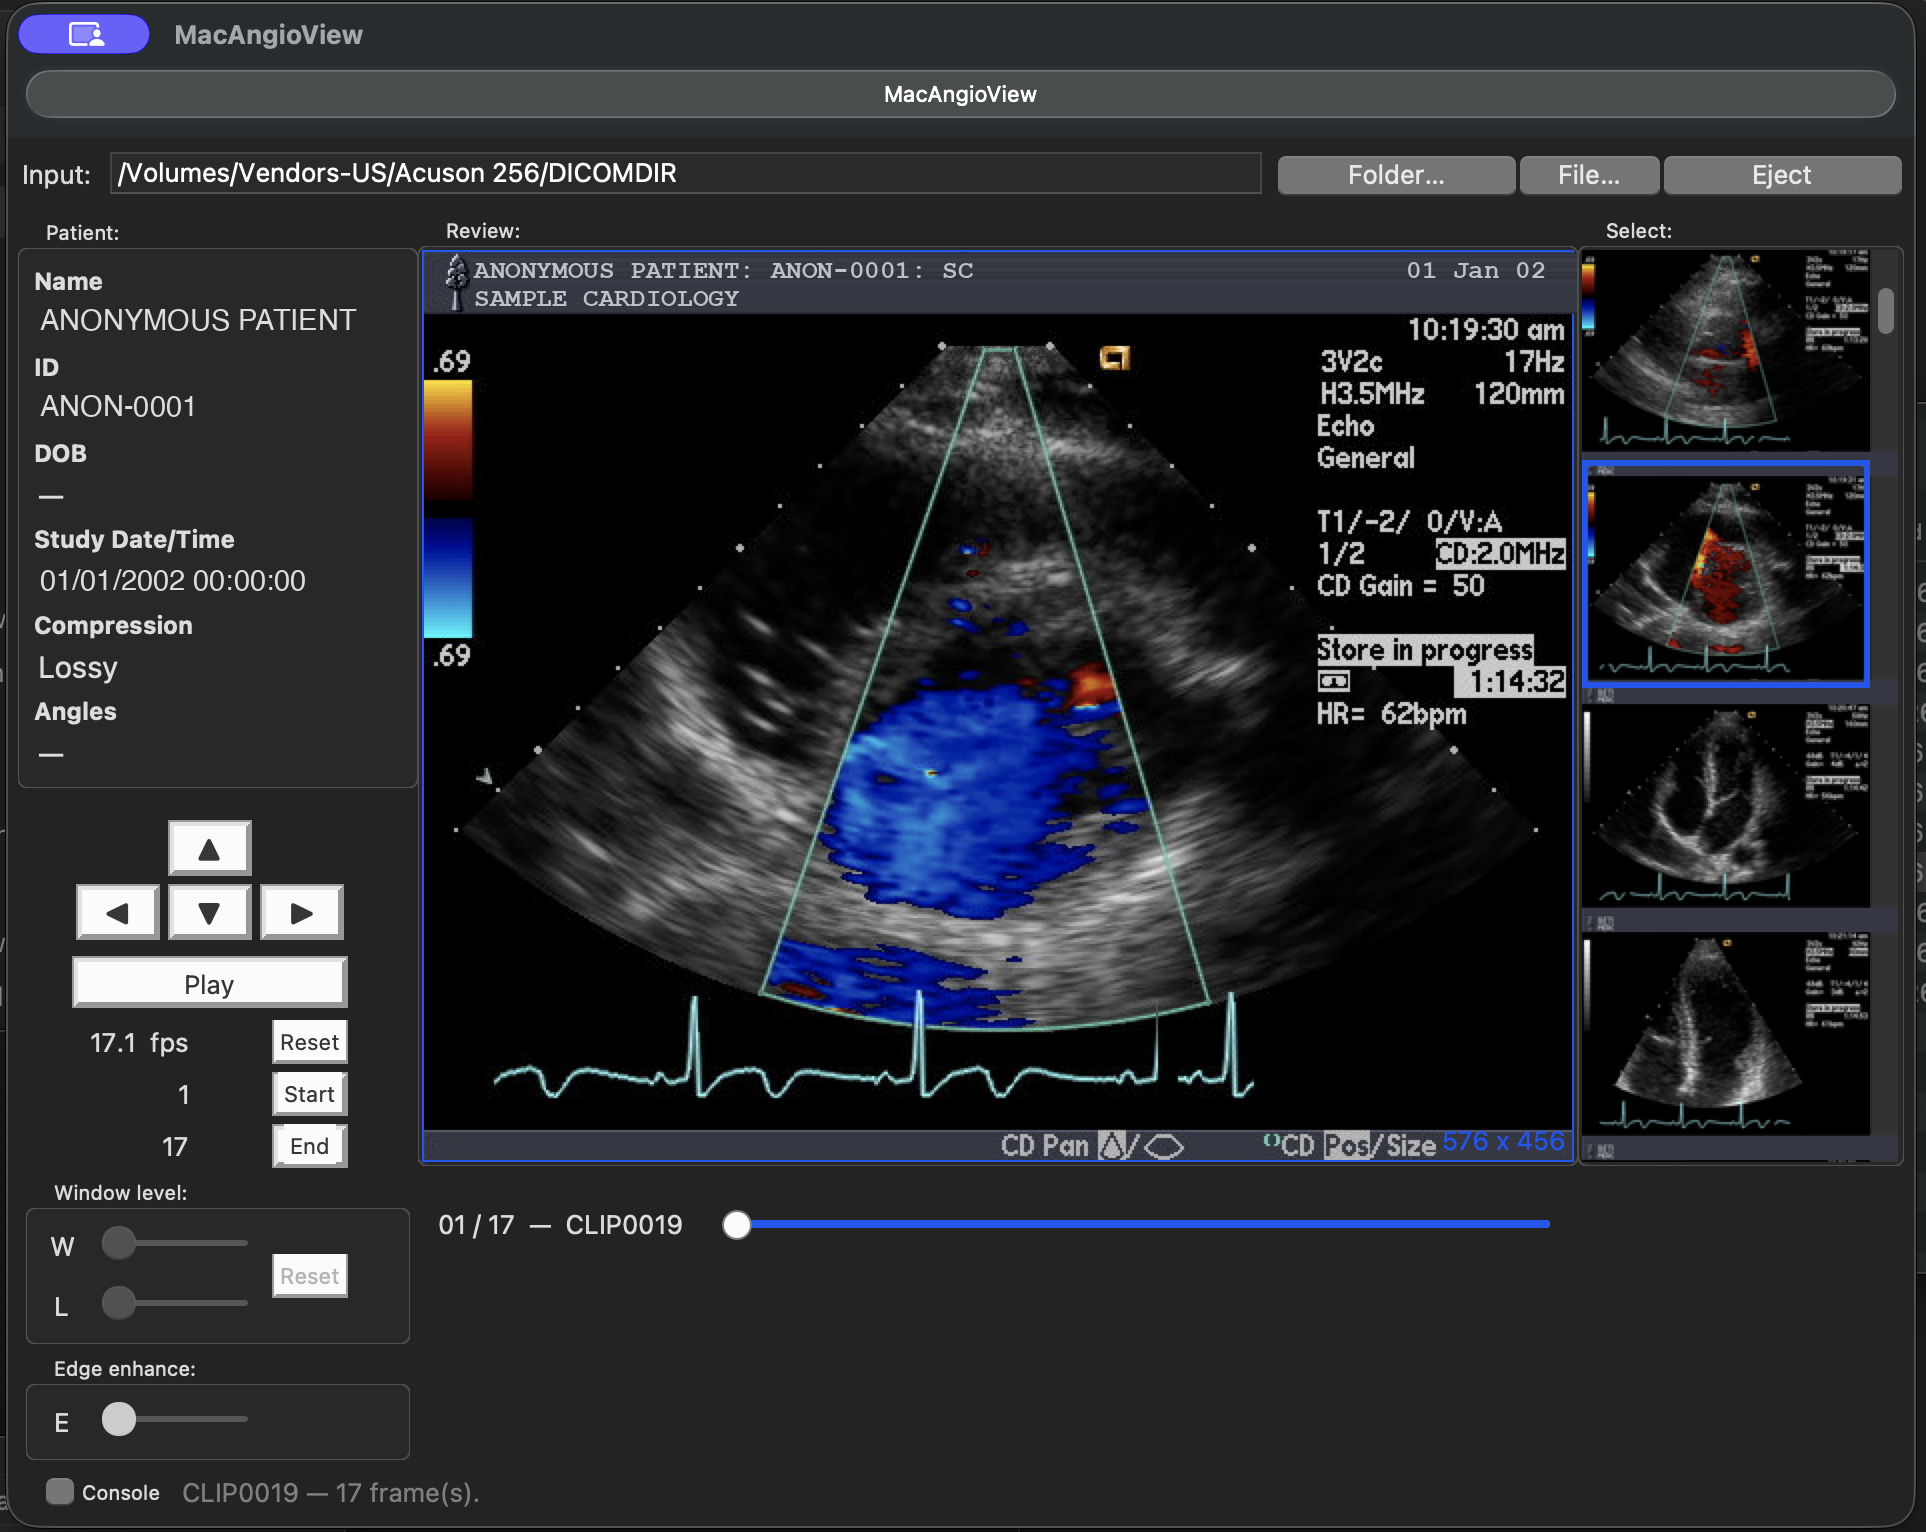
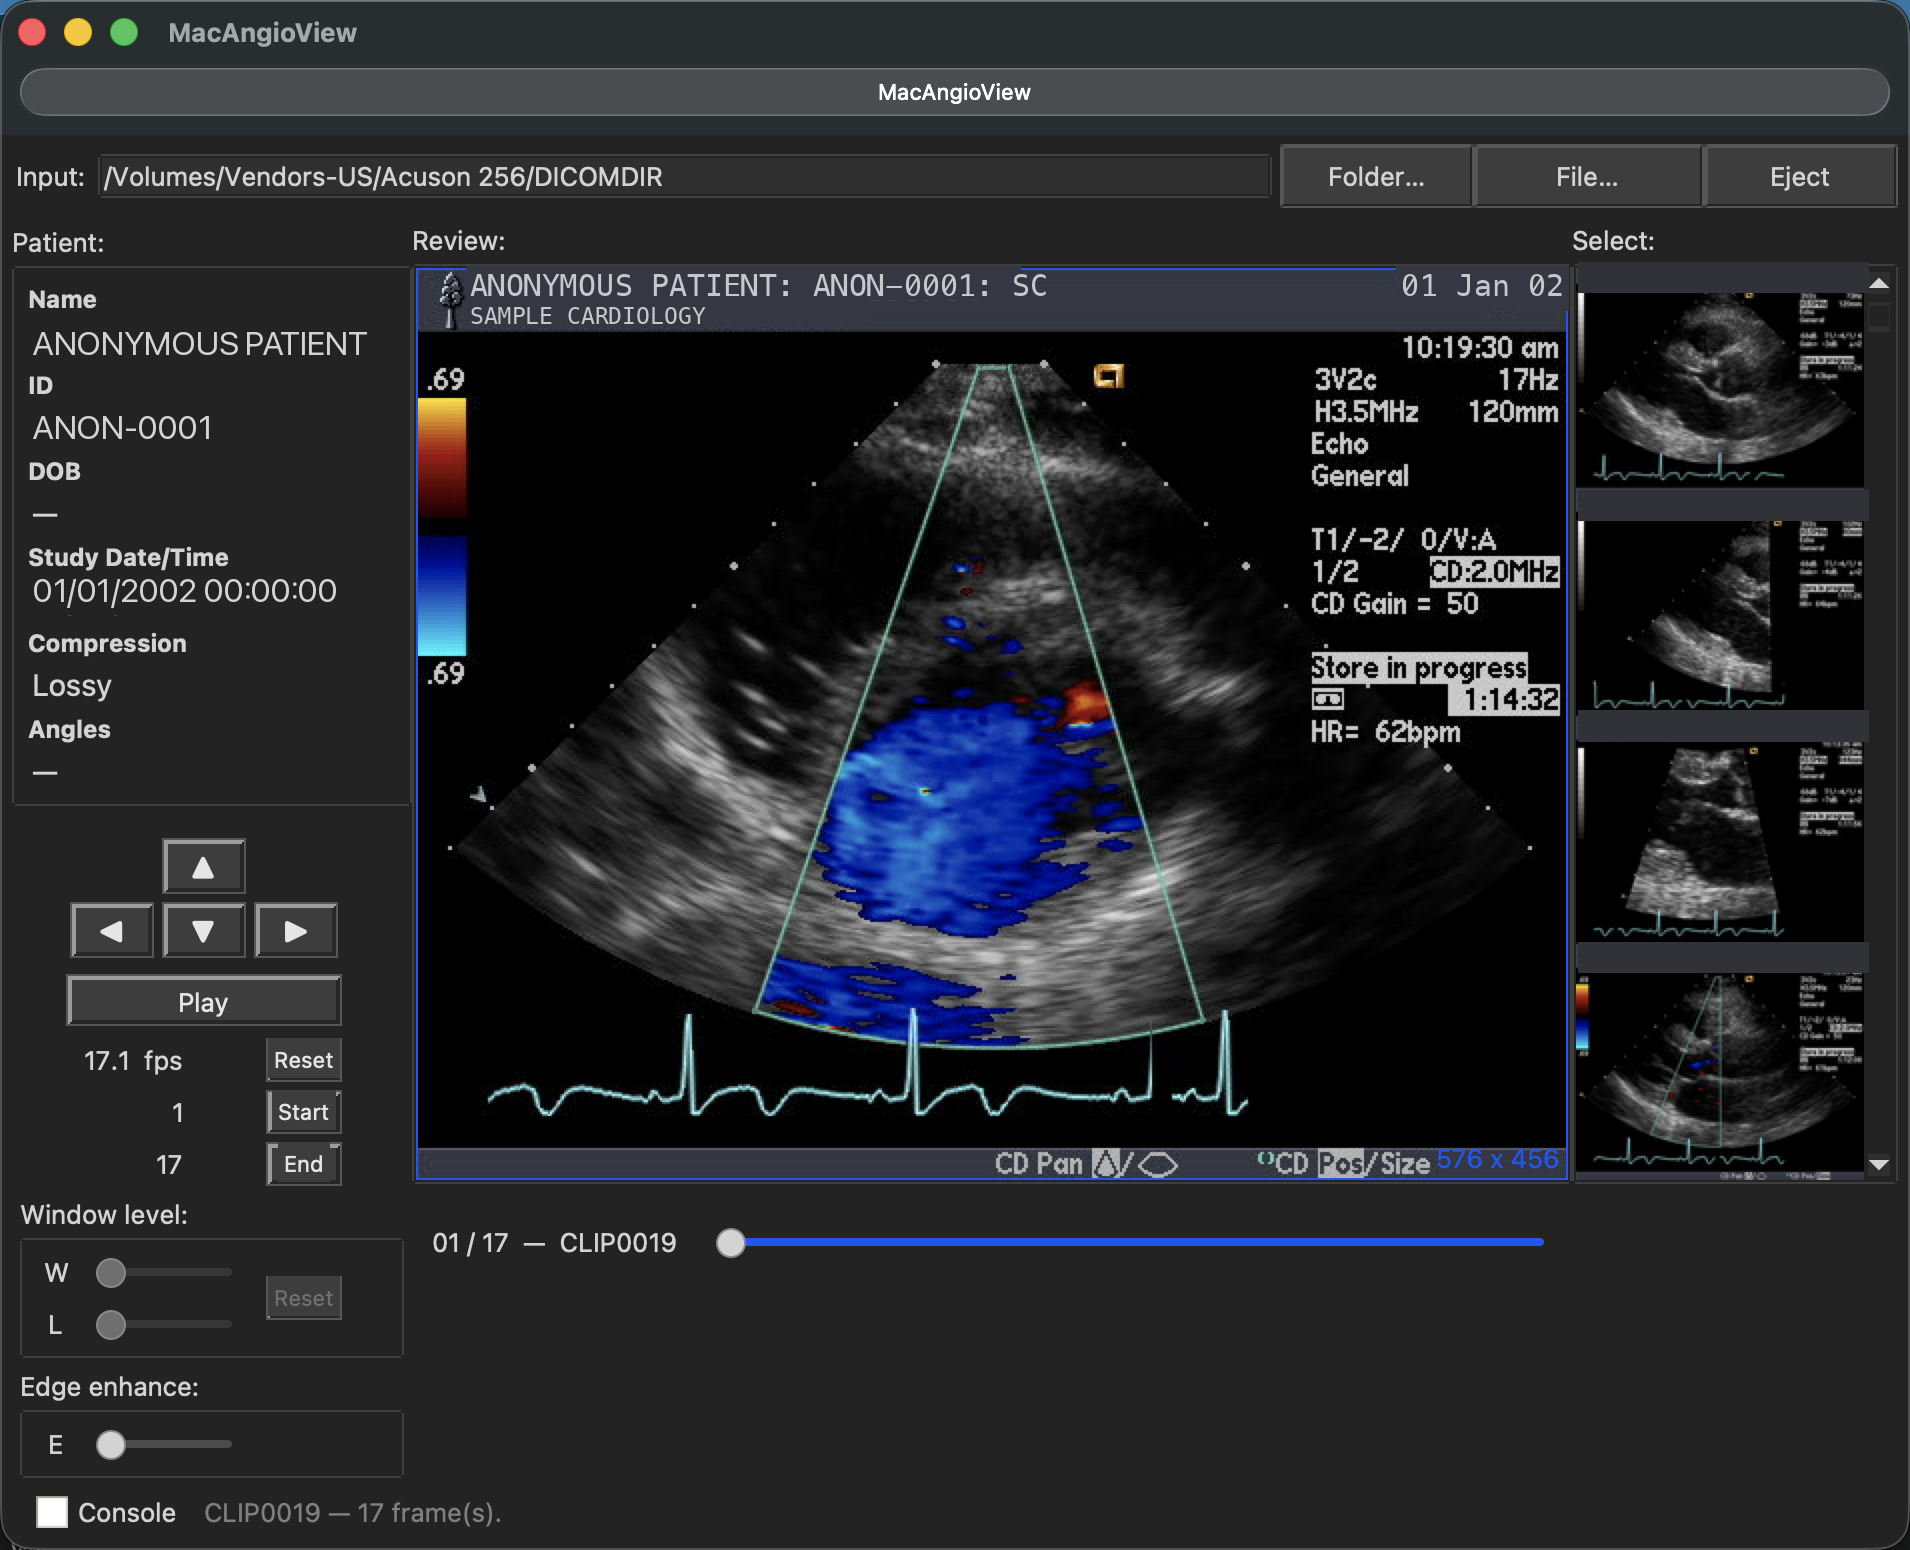
1.1b site update: dual-platform downloads, rev 2.4 conformance, new screenshots
Publishes the site alongside the v1.1b release and the forthcoming Windows
build.

- Conformance statement regenerated for v1.1b / document revision 2.4
  (documentation-only revision: product description made platform-neutral,
  clipboard described as the system clipboard; no change to supported SOP
  classes, transfer syntaxes, or the display pipeline).
- Both hero screenshots regenerated from the current dark-theme build.
- Copy and metadata de-Mac'd ahead of the Windows release: title, meta
  description, OG/Twitter cards, tagline, FAQ.
- Two stacked download buttons (Mac / Windows), sharing a width, plus an
  understated release-asset download tally sourced from the public GitHub
  API. The tally stays empty if the API call fails or is rate-limited.
- Windows coverage completed where the platform-neutral pass had left
  "Install (Mac)" / "Mac —" headings implying a counterpart that did not
  exist: Windows rows in both Requirements lists, an Install (Windows)
  section, and a SmartScreen FAQ entry (that build is not code-signed).
- JSON-LD operatingSystem now names both platforms rather than staying
  Mac-only while the visible copy went neutral.

The Windows button targets the exact asset filename that
make_windows_zip.ps1 documents and produces, MacAngioView-Windows.zip. That
asset is not on the v1.1b release yet, so the button 404s until it is
uploaded.

diff --git a/index.html b/index.html
@@ -12,8 +12,8 @@
 </script>
 <meta charset="UTF-8">
 <meta name="viewport" content="width=device-width, initial-scale=1.0">
-<title>MacAngioView — DICOM Angiogram &amp; Ultrasound Cine Viewer for macOS</title>
-<meta name="description" content="MacAngioView is a free DICOM cine viewer for macOS. Play back x-ray angiography (XA) and multiframe ultrasound (US) loops from cath-lab and echo study CDs, view PDF and Structured Report documents, and export runs to standard movie formats.">
+<title>MacAngioView — DICOM Angiogram &amp; Ultrasound Cine Viewer</title>
+<meta name="description" content="MacAngioView is a free DICOM cine viewer. Play back x-ray angiography (XA) and multiframe ultrasound (US) loops from cath-lab and echo study CDs, view PDF and Structured Report documents, and export runs to standard movie formats.">
 <link rel="canonical" href="https://macangioview.com/">
 <link rel="icon" type="image/png" href="/icon.png">
 <link rel="apple-touch-icon" href="/icon.png">
@@ -21,13 +21,13 @@
 <!-- Open Graph / social sharing -->
 <meta property="og:type" content="website">
 <meta property="og:site_name" content="MacAngioView">
-<meta property="og:title" content="MacAngioView — DICOM Angiogram &amp; Ultrasound Cine Viewer for macOS">
-<meta property="og:description" content="Free DICOM cine viewer for macOS. Play back x-ray angiography (XA) and multiframe ultrasound (US) loops from study CDs, and export to standard movie formats.">
+<meta property="og:title" content="MacAngioView — DICOM Angiogram &amp; Ultrasound Cine Viewer">
+<meta property="og:description" content="Free DICOM cine viewer. Play back x-ray angiography (XA) and multiframe ultrasound (US) loops from study CDs, and export to standard movie formats.">
 <meta property="og:url" content="https://macangioview.com/">
 <meta property="og:image" content="https://macangioview.com/screenshot.jpg">
 <meta name="twitter:card" content="summary_large_image">
-<meta name="twitter:title" content="MacAngioView — DICOM Angiogram &amp; Ultrasound Cine Viewer for macOS">
-<meta name="twitter:description" content="Free DICOM cine viewer for macOS. Play back x-ray angiography (XA) and multiframe ultrasound (US) loops from study CDs.">
+<meta name="twitter:title" content="MacAngioView — DICOM Angiogram &amp; Ultrasound Cine Viewer">
+<meta name="twitter:description" content="Free DICOM cine viewer. Play back x-ray angiography (XA) and multiframe ultrasound (US) loops from study CDs.">
 <meta name="twitter:image" content="https://macangioview.com/screenshot.jpg">
 
 <!-- Structured data -->
@@ -36,9 +36,9 @@
   "@context": "https://schema.org",
   "@type": "SoftwareApplication",
   "name": "MacAngioView",
-  "operatingSystem": "macOS 12.0 or later",
+  "operatingSystem": "macOS 12.0 or later, Windows 10 or 11 (64-bit)",
   "applicationCategory": "MedicalApplication",
-  "description": "A DICOM cine viewer for macOS that plays back x-ray angiography (XA) and multiframe ultrasound (US) loops, with export to standard movie formats. For review and educational use; not a certified medical device.",
+  "description": "A DICOM cine viewer that plays back x-ray angiography (XA) and multiframe ultrasound (US) loops, with export to standard movie formats. For review and educational use; not a certified medical device.",
   "url": "https://macangioview.com/",
   "image": "https://macangioview.com/icon.png",
   "screenshot": "https://macangioview.com/screenshot.jpg",
@@ -61,6 +61,10 @@
   .tagline{font-size:1.25rem;color:var(--muted);margin:16px auto 32px;max-width:640px}
   .btn{display:inline-block;background:var(--accent);color:#fff;text-decoration:none;font-weight:600;font-size:1.1rem;padding:14px 36px;border-radius:10px;transition:background .15s}
   .btn:hover{background:var(--accent-h)}
+  /* Stacked download buttons: one column sized to the widest label, centred,
+     so both buttons share a width regardless of their text. */
+  .dl{display:grid;grid-auto-rows:auto;justify-content:center;gap:12px}
+  .dl .btn{width:100%;text-align:center}
   .sub{color:var(--muted);font-size:.9rem;margin-top:12px}
   .shot{display:block;max-width:560px;width:100%;height:auto;margin:40px auto 0;border:1px solid var(--border);border-radius:12px;box-shadow:0 20px 60px rgba(0,0,0,.5)}
   .shot + .shot{margin-top:24px}
@@ -77,6 +81,9 @@
   .faq h3{font-size:1.05rem;margin:22px 0 6px}
   .faq p{color:var(--muted);font-size:.95rem}
   footer{padding:40px 0;text-align:center;color:var(--muted);font-size:.85rem;border-top:1px solid var(--border)}
+  /* Download tally: deliberately understated, bottom-right. Stays empty (and
+     so invisible) if the GitHub API call fails or is rate-limited. */
+  .dlcount{text-align:right;font-size:.7rem;color:var(--muted);opacity:.5;margin-top:10px;font-variant-numeric:tabular-nums}
   a{color:var(--accent)}
 </style>
 </head>
@@ -85,13 +92,16 @@
 <header>
   <div class="wrap">
     <h1>MacAngioView</h1>
-    <p class="tagline">A DICOM cine viewer for macOS. Play back x-ray angiography (XA) and multiframe ultrasound (US) loops from a wide range of cath-lab and echo imaging systems — and read the study's PDF and Structured Report documents alongside.</p>
-    <a class="btn" href="https://github.com/wlapointe/MacAngioView/releases/latest/download/MacAngioView.dmg">Download for Mac</a>
-    <p class="sub">Free download &middot; macOS 12 or later &middot; <a href="https://github.com/wlapointe/MacAngioView">Source &amp; releases on GitHub</a></p>
-    <img class="shot" src="/screenshot.jpg" width="1400" height="1094"
-         alt="MacAngioView on macOS playing a coronary cine-angiogram run at 30 fps, with run thumbnails including a structured report, frame slider, and window-level controls">
-    <img class="shot" src="/Echocardiography-Sample.png" width="1926" height="1532"
-         alt="MacAngioView on macOS playing a color-Doppler echocardiography (ultrasound) loop, with study thumbnails, frame slider, edge-enhance and window-level controls">
+    <p class="tagline">A DICOM cine viewer. Play back x-ray angiography (XA) and multiframe ultrasound (US) loops from a wide range of cath-lab and echo imaging systems — and read the study's PDF and Structured Report documents alongside.</p>
+    <div class="dl">
+      <a class="btn" href="https://github.com/wlapointe/MacAngioView/releases/latest/download/MacAngioView.dmg">Download for Mac</a>
+      <a class="btn" href="https://github.com/wlapointe/MacAngioView/releases/latest/download/MacAngioView-Windows.zip">Download for Windows 10/11</a>
+    </div>
+    <p class="sub">Free download &middot; macOS 12 or later &middot; Windows 10/11 (64-bit) &middot; <a href="https://github.com/wlapointe/MacAngioView">Source &amp; releases on GitHub</a></p>
+    <img class="shot" src="/screenshot.jpg" width="1750" height="1550"
+         alt="MacAngioView playing a coronary cine-angiogram run at 30 fps, with run thumbnails including a structured report, frame slider, and window-level controls">
+    <img class="shot" src="/Echocardiography-Sample.png" width="1910" height="1550"
+         alt="MacAngioView playing a color-Doppler echocardiography (ultrasound) loop, with study thumbnails, frame slider, edge-enhance and window-level controls">
   </div>
 </header>
 
@@ -115,7 +125,8 @@
   <div class="wrap">
     <h2>Requirements</h2>
     <ul class="req">
-      <li>macOS 12 (Monterey) or later — Apple silicon or Intel</li>
+      <li>Mac — macOS 12 (Monterey) or later, Apple silicon or Intel</li>
+      <li>Windows — Windows 10 or 11, 64-bit</li>
       <li>DICOM XA cine-angiogram runs or multiframe US studies on CD, disk, or folder</li>
     </ul>
   </div>
@@ -124,12 +135,14 @@
 <section class="faq">
   <div class="wrap">
     <h2>FAQ</h2>
-    <h3>Can I open my angiogram CD on a Mac?</h3>
+    <h3>Can I open my angiogram CD myself?</h3>
     <p>Yes. Insert the CD (or copy its contents to a folder), open MacAngioView, and point it at the disc or folder. It finds the DICOM XA runs automatically — no separate viewer software from the CD is needed.</p>
     <h3>Does it play ultrasound studies?</h3>
     <p>Yes. Multiframe DICOM ultrasound (US) cine loops — such as echocardiography and vascular studies — play back the same way as angiography runs.</p>
     <h3>Is it free?</h3>
-    <p>Yes. MacAngioView is a free download, signed and notarized by Apple, distributed through <a href="https://github.com/wlapointe/MacAngioView/releases">GitHub Releases</a>.</p>
+    <p>Yes. MacAngioView is a free download, distributed through <a href="https://github.com/wlapointe/MacAngioView/releases">GitHub Releases</a>. The Mac build is signed and notarized by Apple, so it opens with no security warnings.</p>
+    <h3>Windows says "Windows protected your PC" — is that a problem?</h3>
+    <p>No. The Windows beta isn't code-signed yet, so SmartScreen warns on first launch. Click <strong>More info</strong>, then <strong>Run anyway</strong>. Extract the zip first and run <code>MacAngioView.exe</code> from the extracted folder.</p>
     <h3>Can I use it for diagnosis?</h3>
     <p>No. MacAngioView is for review, education, and personal record-keeping. It is not a certified medical device and must not be used for primary diagnosis or treatment decisions.</p>
     <h3>Is there a DICOM Conformance Statement?</h3>
@@ -145,8 +158,38 @@
 </section>
 
 <footer>
-  <div class="wrap">&copy; 2026 Wil Lapointe &middot; MacAngioView &middot; <a href="/conformance.html">DICOM Conformance Statement</a></div>
+  <div class="wrap">&copy; 2026 Wil Lapointe &middot; MacAngioView &middot; <a href="/conformance.html">DICOM Conformance Statement</a>
+    <div class="dlcount" id="dlcount"></div>
+  </div>
 </footer>
+
+<script>
+// Release-asset download tallies, straight from the public GitHub API
+// (CORS-enabled, 60 req/hr per visitor IP, 60s cache). Rendered as
+// <mac>-<windows>. Any failure leaves the element empty rather than
+// showing a broken placeholder.
+(function () {
+  var el = document.getElementById('dlcount');
+  if (!el) return;
+  fetch('https://api.github.com/repos/wlapointe/MacAngioView/releases')
+    .then(function (r) { return r.ok ? r.json() : Promise.reject(r.status); })
+    .then(function (releases) {
+      if (!Array.isArray(releases)) return;
+      var mac = 0, win = 0;
+      releases.forEach(function (rel) {
+        (rel.assets || []).forEach(function (a) {
+          var n = (a.name || '').toLowerCase();
+          var c = a.download_count || 0;
+          if (n.endsWith('.dmg')) mac += c;
+          else if (n.endsWith('.exe') || n.endsWith('.msi') ||
+                   n.indexOf('windows') !== -1) win += c;
+        });
+      });
+      el.textContent = mac + '-' + win;
+    })
+    .catch(function () { /* leave the tally out entirely */ });
+})();
+</script>
 
 </body>
 </html>

diff --git a/conformance.html b/conformance.html
@@ -4,7 +4,7 @@
 <meta charset="UTF-8">
 <meta name="viewport" content="width=device-width, initial-scale=1.0">
 <title>DICOM Conformance Statement — MacAngioView</title>
-<meta name="description" content="DICOM Conformance Statement for MacAngioView, the free DICOM angiogram and ultrasound cine viewer for macOS: supported SOP classes, transfer syntaxes, media profiles, and display pipeline.">
+<meta name="description" content="DICOM Conformance Statement for MacAngioView, the free DICOM angiogram and ultrasound cine viewer: supported SOP classes, transfer syntaxes, media profiles, and display pipeline.">
 <link rel="canonical" href="https://macangioview.com/conformance.html">
 <link rel="icon" type="image/png" href="/icon.png">
 <style>
@@ -45,8 +45,8 @@
 
 <article class="wrap">
 <div class="markdown-heading"><h1 class="heading-element">DICOM Conformance Statement</h1><a id="user-content-dicom-conformance-statement" class="anchor" aria-label="Permalink: DICOM Conformance Statement" href="#dicom-conformance-statement"><span aria-hidden="true" class="octicon octicon-link"></span></a></div>
-<p><strong>MacAngioView</strong> — DICOM cine viewer for macOS
-Version 1.0b · Document date 2026-07-19 · Document version 2.3 (draft)</p>
+<p><strong>MacAngioView</strong> — DICOM cine viewer
+Version 1.1b · Document date 2026-07-23 · Document version 2.4 (draft)</p>
 <blockquote>
 <p><strong>Disclaimer.</strong> MacAngioView is a beta application for evaluation, review,
 and educational use only. It is <strong>not a certified medical device</strong> and is
@@ -56,12 +56,12 @@ audited.</p>
 </blockquote>
 <hr>
 <div class="markdown-heading"><h2 class="heading-element">1. Conformance Statement Overview</h2><a id="user-content-1-conformance-statement-overview" class="anchor" aria-label="Permalink: 1. Conformance Statement Overview" href="#1-conformance-statement-overview"><span aria-hidden="true" class="octicon octicon-link"></span></a></div>
-<p>MacAngioView is a standalone macOS desktop application that reads DICOM
+<p>MacAngioView is a standalone desktop application that reads DICOM
 PS3.10 (Part 10) files and DICOMDIR file-sets from local storage or mounted
 removable media (CD/DVD/USB), and displays X-ray angiographic (XA) cine
 runs, multiframe/single-frame ultrasound (US) images, and the Encapsulated
 PDF and Structured Report (SR) documents contained in a study. It can export loaded runs to QuickTime (.mov)
-movies and copy the displayed frame to the macOS clipboard (both non-DICOM
+movies and copy the displayed frame to the system clipboard (both non-DICOM
 outputs).</p>
 <p>MacAngioView implements <strong>Media Interchange services only</strong>, in the
 <strong>File-Set Reader (FSR)</strong> role. It provides <strong>no network services</strong> of any
@@ -220,6 +220,12 @@ DICOM objects.</p>
 <td>2026-07-19</td>
 <td>1.0b</td>
 <td>US studies displayed at native matrix (rectangular viewport); zoom and thumbnails preserve source aspect; SR zero-valued NUM measurements rendered</td>
+</tr>
+<tr>
+<td>2.4 (draft)</td>
+<td>2026-07-23</td>
+<td>1.1b</td>
+<td>Documentation only — product description made platform-neutral ahead of the Windows build; clipboard described as the system clipboard. No change to supported SOP classes, transfer syntaxes, or the display pipeline</td>
 </tr>
 </tbody>
 </table>

diff --git a/README.md b/README.md
@@ -1,13 +1,13 @@
 # MacAngioView
 
-**A DICOM cine viewer for macOS** — play back cardiac catheterization
+**A DICOM cine viewer** — play back cardiac catheterization
 angiography (XA) runs and multiframe ultrasound (US) loops from study CDs,
 disks, or exported folders.
 
 <p align="center"><img src="screenshot.jpg" alt="MacAngioView playing a coronary cine-angiogram run, with run thumbnails and playback controls" width="720"></p>
 
 🌐 **Website:** [macangioview.com](https://macangioview.com)
-⬇️ **Download:** [MacAngioView.dmg (latest release)](https://github.com/wlapointe/MacAngioView/releases/latest/download/MacAngioView.dmg)
+⬇️ **Download:** [MacAngioView.dmg (Mac)](https://github.com/wlapointe/MacAngioView/releases/latest/download/MacAngioView.dmg) · [MacAngioView-Windows.zip (Windows)](https://github.com/wlapointe/MacAngioView/releases/latest/download/MacAngioView-Windows.zip)
 
 ## Features
 
@@ -24,17 +24,30 @@ disks, or exported folders.
 
 ## Requirements
 
-- macOS 12 (Monterey) or later — Apple silicon or Intel
+- Mac — macOS 12 (Monterey) or later, Apple silicon or Intel
+- Windows — Windows 10 or 11, 64-bit
 - DICOM XA or multiframe US studies on CD, disk, or folder
 
-## Install
+## Install (Mac)
 
 1. Download [`MacAngioView.dmg`](https://github.com/wlapointe/MacAngioView/releases/latest/download/MacAngioView.dmg)
 2. Double-click the `.dmg` and drag **MacAngioView** onto **Applications**
 3. Launch from your Applications folder
 
-The app is signed and notarized by Apple, so it opens with no security
+The Mac build is signed and notarized by Apple, so it opens with no security
 warnings.
+
+## Install (Windows)
+
+1. Download [`MacAngioView-Windows.zip`](https://github.com/wlapointe/MacAngioView/releases/latest/download/MacAngioView-Windows.zip)
+2. Right-click the zip, choose **Extract All…**, then open the extracted
+   **MacAngioView** folder — don't run the `.exe` from inside Explorer's
+   zip preview, which can drop the files the app needs alongside it
+3. Double-click **MacAngioView.exe**
+
+The Windows build isn't code-signed yet, so SmartScreen will show
+"Windows protected your PC" on first launch — click **More info**, then
+**Run anyway**.
 
 ## Support
 